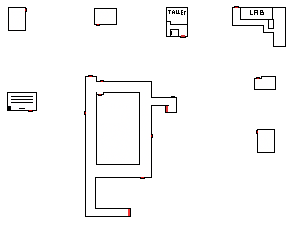
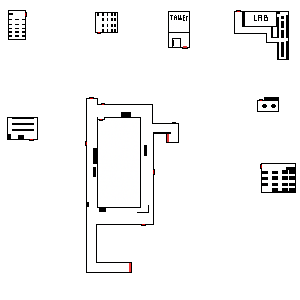
Reordenado Piso arriba, + Texturas piso arriba

diff --git a/src/main/GamePanel.java b/src/main/GamePanel.java
@@ -29,6 +29,10 @@ public class GamePanel extends JPanel implements GameThread.Updatable {
     private ArrayList<NPC> NPCs = new ArrayList<>();
     private Set<Integer> pressedKeys;
     private CollisionMap collisionMap; // Sistema de colisiones
+    private Image[] fondo = {
+    		new ImageIcon("resources/Sprites/fondos/FONDOARRIBA.png").getImage(),
+    		new ImageIcon("resources/Sprites/fondos/FONDOABAJO.png").getImage()
+    };
     
     // Sistema de Teleport
     private CollisionMap plantaAltaMap;
@@ -65,8 +69,8 @@ public class GamePanel extends JPanel implements GameThread.Updatable {
     
     // Zonas para desbloquear:
     
-    public boolean taller = false;
-    public boolean ascensorTaller = false;
+    public boolean taller = true;
+    public boolean ascensorTaller = true;
 
     // Tienda
     
@@ -139,7 +143,7 @@ public class GamePanel extends JPanel implements GameThread.Updatable {
         pressedKeys = new HashSet<>();
         
         // Inicializar jugador
-        player = new Player(282 * SCALE, 43 * SCALE, this);
+        player = new Player(285 * SCALE, 55 * SCALE, this);
         
         // Precargar ambos mapas
         CargarZona(1);
@@ -147,6 +151,7 @@ public class GamePanel extends JPanel implements GameThread.Updatable {
         
         //test
         givePlayerItem("llave_reja", "Llave de la reja", "llave_Reja.png", 1, 1);
+        givePlayerItem("llave_sum", "Llave de la reja", "llave_Reja.png", 1, 1);
         
         // Cargar Dialogos de los NPC
         dialogos = new Properties();
@@ -191,6 +196,22 @@ public class GamePanel extends JPanel implements GameThread.Updatable {
                 newW, newH,
                 null);
         }
+        
+        
+        if(enPlantaAlta) {
+        	img = fondo[0];
+        } else {
+        	img = fondo[1];
+        }
+        
+        // Dibujar fondo con diseños
+        int newW = (int) (img.getWidth(null) * SCALE / 3.3);
+        int newH = (int) (img.getHeight(null) * SCALE / 3.3);
+        
+        g2d.drawImage(img,
+            -(int)CameraX, -(int)CameraY,
+            newW, newH,
+            null);
 
         
         
@@ -1116,17 +1137,17 @@ public class GamePanel extends JPanel implements GameThread.Updatable {
             renderList.add(player);
             
             // Generar NPCs
-            NPCs.add(NPCManager.getOrCreateNPC("Pacheco", 282 * SCALE, 40 * SCALE, GW.SX(40), this));
-            NPCs.add(NPCManager.getOrCreateNPC("Linzalata", 282 * SCALE, 17 * SCALE, GW.SX(40), this));
+            NPCs.add(NPCManager.getOrCreateNPC("Pacheco", 285 * SCALE, 52 * SCALE, GW.SX(40), this));
+            NPCs.add(NPCManager.getOrCreateNPC("Linzalata", 285 * SCALE, 30 * SCALE, GW.SX(40), this));
             NPCs.add(NPCManager.getOrCreateNPC("Ledesma", 13 * SCALE, 11 * SCALE, GW.SX(50), this));
-            NPCs.add(NPCManager.getOrCreateNPC("Moya", 277 * SCALE, 10 * SCALE, GW.SX(45), this));
+            NPCs.add(NPCManager.getOrCreateNPC("Moya", 277 * SCALE, 14 * SCALE, GW.SX(45), this));
             NPCs.add(NPCManager.getOrCreateNPC("Gera", 99 * SCALE, 14 * SCALE, GW.SX(40), this));
-            NPCs.add(NPCManager.getOrCreateNPC("ASCENSOR", 172 * SCALE, 97 * SCALE, GW.SX(40), this));
-            NPCs.add(NPCManager.getOrCreateNPC("Ascensor", 170 * SCALE, 33 * SCALE, GW.SX(40), this));
-            NPCs.add(NPCManager.getOrCreateNPC("Estufa", 258 * SCALE, 150 * SCALE, GW.SX(60), this));
-            NPCs.add(NPCManager.getOrCreateNPC("Caja", 22 * SCALE, 104 * SCALE, GW.SX(40), this));
-            NPCs.add(NPCManager.getOrCreateNPC("Tacho", 128 * SCALE, 165 * SCALE, GW.SX(40), this));
-            NPCs.add(NPCManager.getOrCreateNPC("TAcho", 260 * SCALE, 130 * SCALE, GW.SX(40), this));
+            NPCs.add(NPCManager.getOrCreateNPC("ASCENSOR", 174 * SCALE, 122 * SCALE, GW.SX(40), this));
+            NPCs.add(NPCManager.getOrCreateNPC("Ascensor", 172 * SCALE, 43 * SCALE, GW.SX(40), this));
+            NPCs.add(NPCManager.getOrCreateNPC("Estufa", 261 * SCALE, 191 * SCALE, GW.SX(60), this));
+            NPCs.add(NPCManager.getOrCreateNPC("Caja", 23 * SCALE, 133 * SCALE, GW.SX(40), this));
+            NPCs.add(NPCManager.getOrCreateNPC("Tacho", 128 * SCALE, 208 * SCALE, GW.SX(40), this));
+            NPCs.add(NPCManager.getOrCreateNPC("TAcho", 268 * SCALE, 164 * SCALE, GW.SX(40), this));
             
             for (NPC npc : NPCs) {
                 renderList.add(npc);

diff --git a/src/main/GameSaveManager.java b/src/main/GameSaveManager.java
@@ -134,8 +134,8 @@ public class GameSaveManager {
         gamePanel.setStockTienda(new int[] {3, 3, 1});
 
         // === Reiniciar jugador ===
-        player.setX(282 * gamePanel.SCALE);
-        player.setY(43 * gamePanel.SCALE);
+        player.setX(285 * gamePanel.SCALE);
+        player.setY(55 * gamePanel.SCALE);
         for(int i = 0; i<player.inventory.getTotalSlots() ; i++) {
         	player.inventory.removeFromSlot(i, 4);
         }
